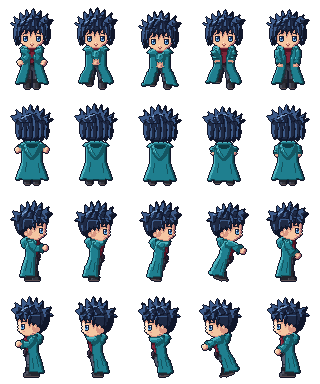
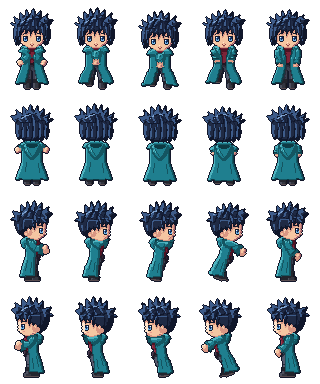
Ações: ombro preso ao tronco (ombreira), sem junta estranha quando o braço cruza o peito
Claude-Session: https://claude.ai/code/session_013vLqrVyPBNyjBLYS91kN9N

diff --git a/public/pixelHero.js b/public/pixelHero.js
@@ -828,6 +828,7 @@ export function skeletonFrame(view, anim, t) {
   }
   X.ar = Math.round(((R1.pose.air || 0) * SK)); // px no ar (os dois pés fora do chão)
   X.mirror = mirror;
+  X.acao = !!HERO_ANIMS[anim]; // ombreira presa ao tronco só nas ações (andar e correr aprovados ficam como estão)
   return X;
 }
 
@@ -852,6 +853,12 @@ function skeletonPosed({ parts, stamps }, view, { anim, t, bob = null }) {
     // Braço e perna: corta no cotovelo/joelho, com 1 linha de sobra de cada lado.
     const cut = limb === 'braco' ? L.cotoveloY : L.joelhoY;
     const [A, B] = limb === 'braco' ? [L.braco, L.mao] : [L.coxa, L.canela];
+    // Ombro: o alto da manga (até 2 linhas abaixo do ombro) fica preso ao tronco, como uma ombreira; o braço gira por
+    // baixo dela. Assim o ombro não descola nem abre buraco quando o braço cruza o peito ou sobe.
+    if (limb === 'braco' && X.acao) {
+      const capY = PIVOTS[view === 'esquerda' ? 'direita' : view][k]?.ombro?.[1] ?? 50;
+      return [[and(p.mask, rows(capY - 1, cut + 1)), A, ''], [and(p.mask, rows(cut - 1, 96)), B, '~2'], [and(p.mask, rows(0, capY + 2)), X.tronco, '~0']];
+    }
     return [[and(p.mask, rows(0, cut + 1)), A, ''], [and(p.mask, rows(cut - 1, 96)), B, '~2']];
   };
   for (const p of parts) {
